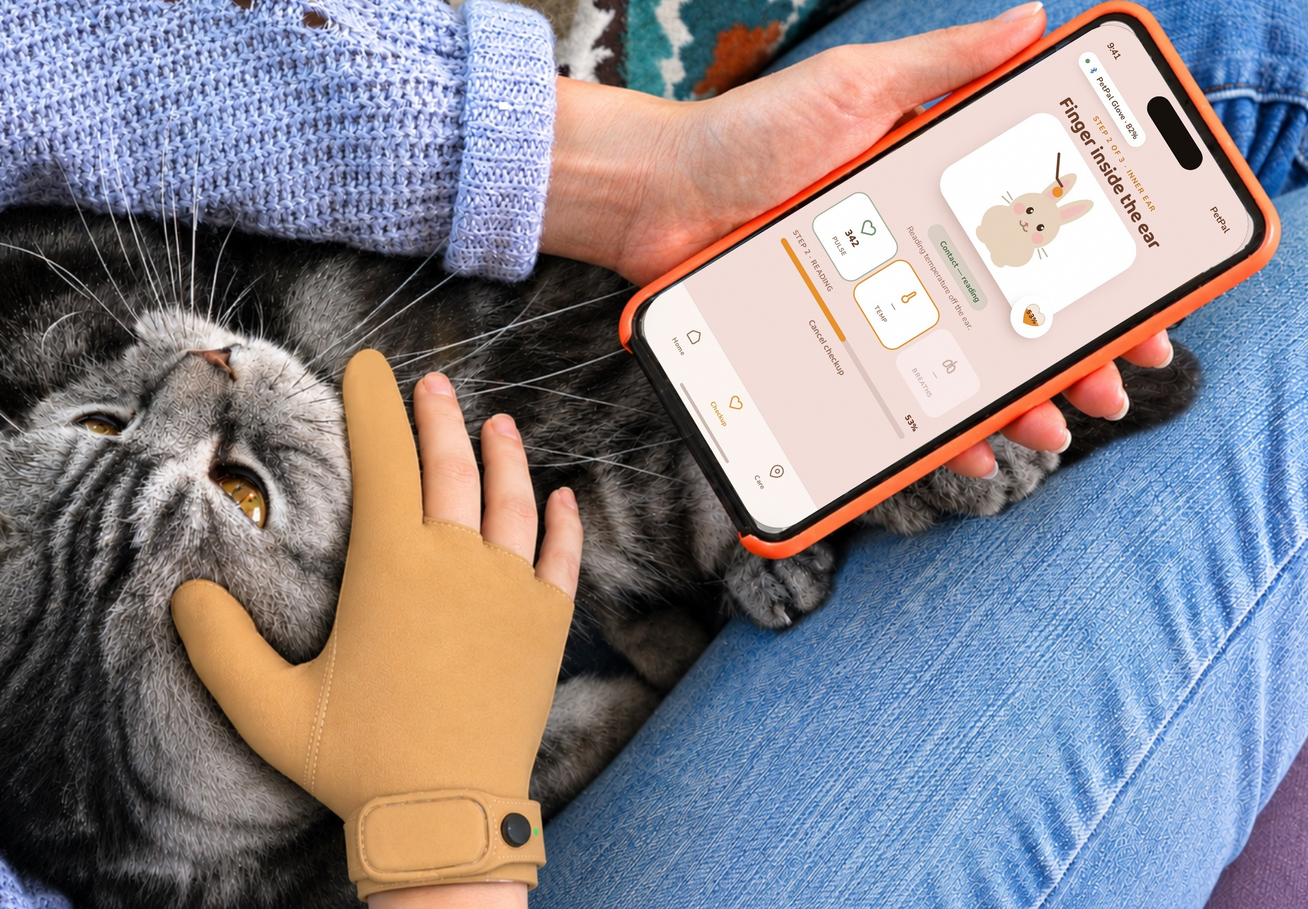
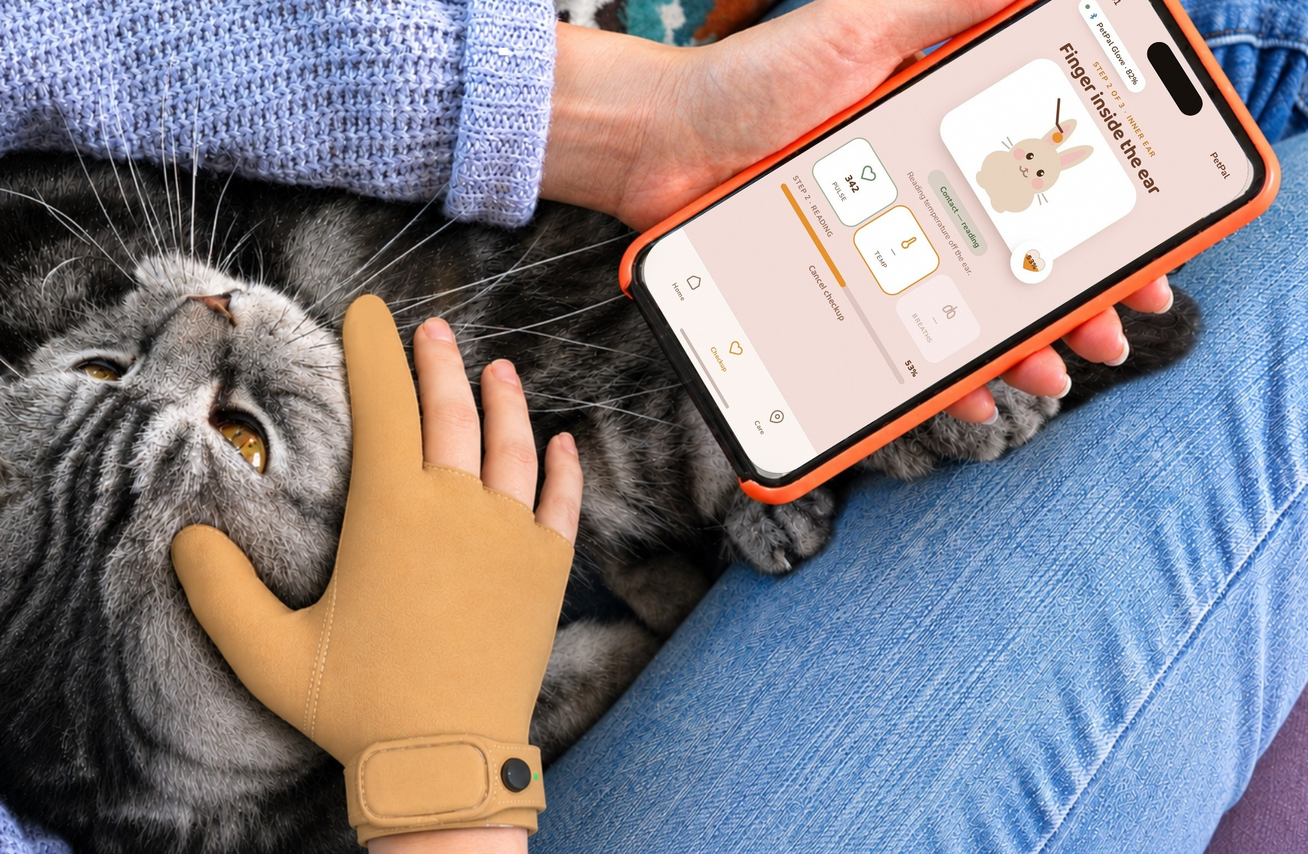
Swap PetPal cover, tidy prototype embed, crop cover top edge
Cover is now the cat/glove/phone photo (promo-live-reading.jpg)
instead of the couch/dog lifestyle shot, which is dropped from the
page entirely. Cropped a thin light strip off the top of that photo
so it doesn't show as a pale edge once framed.

Hid the prototype's dev-preview controls (glove-state toggle buttons
and the explanatory legend paragraph) — they're debugging aids, not
part of the actual app. Shrank and centered the embed instead of
stretching it to match the hero's width, which left a mostly-empty
box since the prototype is a fixed-size phone mockup, not a photo.

Claude-Session: https://claude.ai/code/session_011hFpMbEdSBetW1Lgdei5Vn

diff --git a/site/projects/petpal.html b/site/projects/petpal.html
@@ -68,10 +68,9 @@
     <h1>PetPal</h1>
     <p class="project-lede">A healthcare device that lets pet owners conduct a pet health consultation from home — transmitting vital signs online and translating consultations, treatment options and prescriptions for owners who don&#x27;t speak their vet&#x27;s language.</p>
       </div>
-      <div class="project-cover project-cover-left"><img src="../assets/images/petpal/petpal-lifestyle.jpg" alt="PetPal glove in everyday use"></div>
+      <div class="project-cover project-cover-left"><img src="../assets/images/petpal/promo-live-reading.jpg" alt="PetPal glove in use while petting a cat"></div>
       <div class="project-prototype"><iframe src="../assets/images/petpal/petpal-prototype.html" title="PetPal app interactive prototype" loading="lazy"></iframe></div>
-    <div class="project-gallery"><img src="../assets/images/petpal/promo-live-reading.jpg" alt="PetPal glove in use while petting a cat" loading="lazy">
-<img src="../assets/images/petpal/petpal-sketch.jpg" alt="PetPal" loading="lazy">
+    <div class="project-gallery"><img src="../assets/images/petpal/petpal-sketch.jpg" alt="PetPal" loading="lazy">
 <img src="../assets/images/petpal/petpal-render.jpg" alt="PetPal" loading="lazy">
 <img src="../assets/images/petpal/petpal-species.jpg" alt="PetPal" loading="lazy">
 <img src="../assets/images/petpal/petpal-flow-01-onboarding.gif" alt="PetPal app onboarding flow" loading="lazy">

diff --git a/site/assets/css/style.css b/site/assets/css/style.css
@@ -327,8 +327,8 @@ footer p{ color: var(--ink-soft); font-size:0.82rem; margin:0; font-family: var(
 .project-cover-contain img{ object-fit:contain; }
 /* live, clickable phone prototype embed */
 .project-prototype{
-  border-radius: var(--radius); overflow:hidden; margin: 0 0 50px; background:#F7EFE9;
-  aspect-ratio: 500/1200; max-width: 480px;
+  border-radius: var(--radius); overflow:hidden; margin: 0 auto 50px; background:#F7EFE9;
+  aspect-ratio: 434/934; max-width: 320px;
 }
 .project-prototype iframe{ width:100%; height:100%; border:0; }
 @media (min-width: 861px){

diff --git a/site/assets/images/petpal/petpal-prototype.html b/site/assets/images/petpal/petpal-prototype.html
@@ -372,6 +372,8 @@ button{font:inherit;color:inherit;border:0;background:none;cursor:pointer}
 .stack>*+*{margin-top:10px}
 .legend{max-width:420px;text-align:center;font-size:12.5px;color:var(--cocoa-soft);line-height:1.6}
 .legend b{color:var(--cocoa)}
+/* hidden in the embedded site version: these are dev-preview controls, not part of the app itself */
+.demo,.legend{display:none}
 </style>
 </head>
 <body>
